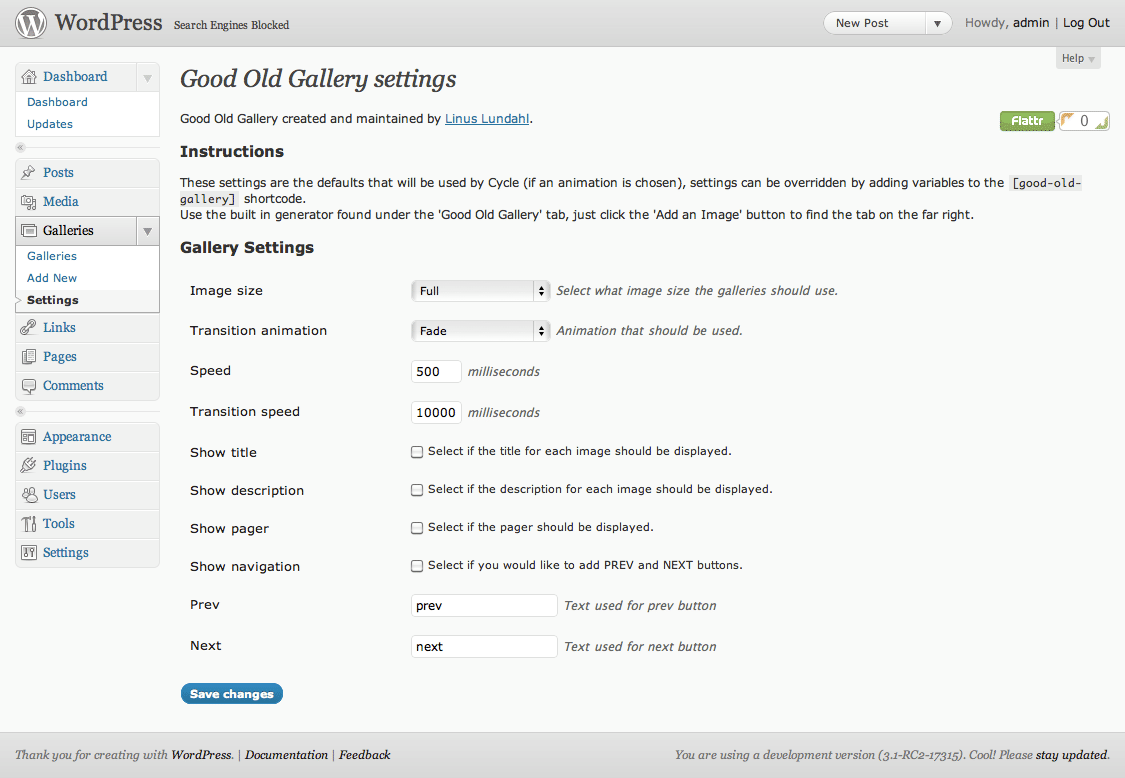
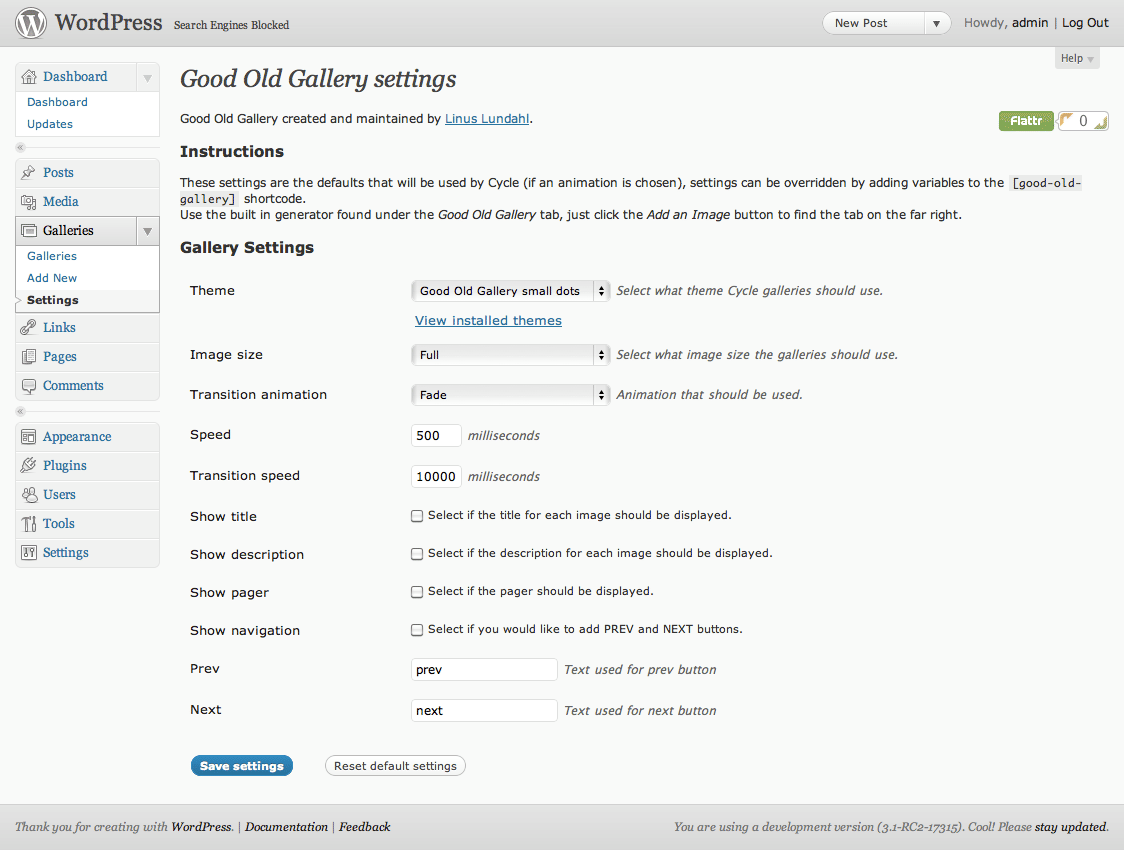
Added style to small dots theme + Minor fixes.

diff --git a/themes/good-old-gallery-dots.css b/themes/good-old-gallery-dots.css
@@ -1,10 +1,57 @@
 /**
  *
- * Style Name: Good Old Gallery Small Pager
- * Description: A neat gallery with small pager icons floating on top of the gallery.
+ * Style Name: Good Old Gallery small dots
+ * Description: A neat gallery pager with small dots floating on top of the gallery. Uses CSS3 to achieve this. (titles and descriptions are not styled yet)
  * Author: Linus Lundahl
- * Version: 0.1
+ * Version: 1.0
  * Author URI: http://unwi.se/
  *
  */
 
+.go-gallery { padding: 0 30px; position: relative; }
+
+/** Pager */
+.go-gallery .pager {
+	-webkit-border-radius: 8px;
+	-moz-border-radius: 8px;
+	border-radius: 8px;
+	background: rgba(0,0,0,.4);
+	left: 20px;
+	padding: 5px 10px;
+	position: absolute;
+	top: 20px;
+	z-index: 999;
+}
+.go-gallery.has-pager .pager {
+	left: 50px;
+}
+.go-gallery .pager a {
+	-webkit-border-radius: 3px;
+	-moz-border-radius: 3px;
+	border-radius: 3px;
+	background: #000;
+	height: 0;
+	overflow: hidden;
+	padding: 6px 0 0 0;
+	width: 6px;
+}
+.go-gallery .pager a.activeSlide { background: #fff;}
+.go-gallery .pager a:first-child { margin: 0; }
+/* end Pager */
+
+/** Navigation */
+.go-gallery .nav .prev,
+.go-gallery .nav .next {
+	height: 100%;
+	margin: 0;
+	overflow: hidden;
+	position: absolute;
+	text-indent: -9999px;
+	top: 0;
+	width: 30px;
+}
+.go-gallery .nav .prev { background: url("good-old-gallery-dots/arrows.png") 0 center no-repeat; left: 0; }
+.go-gallery .nav .next { background: url("good-old-gallery-dots/arrows.png") -90px center no-repeat; right: 0; }
+.go-gallery .nav .prev:hover { background: url("good-old-gallery-dots/arrows.png") -30px center no-repeat; }
+.go-gallery .nav .next:hover { background: url("good-old-gallery-dots/arrows.png") -60px center no-repeat; }
+/* end Navigation */

diff --git a/style/good-old-gallery.css b/style/good-old-gallery.css
@@ -1,16 +1,15 @@
-.go-gallery, .good-old-gallery-widget { padding: 0; overflow: hidden; }
+.go-gallery, .good-old-gallery-widget { display: inline-block; padding: 0; overflow: hidden; }
 
-.go-gallery .inside, #content .go-gallery .inside { margin: 0; position: relative; }
+.go-gallery .inside { margin: 0; position: relative; }
 
 .go-gallery .title { font-size: 1em; font-weight: bold; margin: 0 5px 0 0; }
 .go-gallery .description { font-size: .8em; font-style: italic; }
 
-.go-gallery img, #content .go-gallery img,
-.go-gallery a, #content .go-gallery a { border: none !important; display: block !important; margin: 0 !important; padding: 0 !important; }
+.go-gallery img,
+.go-gallery a { border: none; display: block; margin: 0; padding: 0; }
 
 .go-gallery .nav { float: left; }
 .go-gallery .nav .prev, .go-gallery .nav .next { cursor: pointer; margin: 0 10px 0 0; }
 
 .go-gallery .pager { float: right; }
-.go-gallery .pager a,
-#content .go-gallery .pager a { float: left; margin-left: 6px !important; }
+.go-gallery .pager a  { float: left; margin-left: 6px; }

diff --git a/style/good-old-gallery-admin.css b/style/good-old-gallery-admin.css
@@ -26,8 +26,9 @@ h3.hndle { cursor: default !important; }
 .goodoldgallery_page_goodoldgallery .go-flattr { position: absolute; right: 0; top: 0; }
 
 .goodoldgallery_page_goodoldgallery .themes-link,
-.goodoldgallery_page_goodoldgallery .available-themes { margin: 0 0 0 235px; padding: 10px 0; }
+.goodoldgallery_page_goodoldgallery .available-themes { margin: 0 0 0 235px; padding: 10px 0; width: 400px; }
 .goodoldgallery_page_goodoldgallery .available-themes .theme { font-weight: bold; }
+.goodoldgallery_page_goodoldgallery .available-themes .theme img { border: 5px solid #eee; margin: 0 0 5px 0; }
 .goodoldgallery_page_goodoldgallery .available-themes .theme .description { font-weight: normal; }
 
 .goodoldgallery_page_goodoldgallery .submit { float: left; margin-left: 10px; }

diff --git a/js/good-old-gallery-admin.js b/js/good-old-gallery-admin.js
@@ -49,6 +49,6 @@ var $j = jQuery.noConflict();
 	});
 
 	// Settings page
-	showHide($('.goodoldgallery_page_goodoldgallery .available-themes'), 'Preview installed themes', 'Hide installed themes', 'themes-link');
+	showHide($('.goodoldgallery_page_goodoldgallery .available-themes'), 'View installed themes', 'Hide installed themes', 'themes-link');
 
 }($j));

diff --git a/inc/shortcode.php b/inc/shortcode.php
@@ -42,9 +42,21 @@ function goodold_gallery_shortcode($attr) {
 			'post_mime_type'  => 'image',
 		) );
 
+		$classes = "";
+
+		// NAVIGATION CLASS
+		if ( $navigation = $navigation ? $navigation : '' ) {
+			$classes .= " has-nav";
+		}
+
+		// PAGER CLASS
+		if ( $pager = $pager ? $pager : '' ) {
+			$classes .= " has-pager";
+		}
+
 		if ( $attachments ) {
 			// GO-GALLERY ID
-			$ret .= '<div id="go-gallery-' . $id . '-' . $i . '" class="go-gallery go-gallery-' . $id . '">' . "\n";
+			$ret .= '<div id="go-gallery-' . $id . '-' . $i . '" class="go-gallery go-gallery-' . $id . $classes . '">' . "\n";
 
 			// INNER CLASS
 			$ret .= '<div class="inner">' . "\n";
@@ -83,18 +95,17 @@ function goodold_gallery_shortcode($attr) {
 			$ret .= '</div>' . "\n";
 
 			// NAVIGATION
-			if ( $navigation = $navigation ? $navigation : '' ) {
+			if ( $navigation ) {
 				$ret .= '<div class="nav">' . "\n";
+				error_log(var_export($prev, TRUE));
 				$ret .= '<span class="prev">' . $prev . '</span><span class="next">' . $next . '</span>' . "\n";
 				$ret .= '</div>' . "\n";
 				$navigation = 'prev: "#go-gallery-' . $id . '-' . $i . ' .prev",' .
 											'next: "#go-gallery-' . $id . '-' . $i . ' .next"';
 			}
 
-
-
 			// PAGER
-			if ( $pager = $pager ? $pager : '' ) {
+			if ( $pager ) {
 				$ret .= '<div class="pager"></div>' . "\n";
 				$pager = 'pager: "#go-gallery-' . $id . '-' . $i . ' .pager",';
 			}

diff --git a/inc/settings.php b/inc/settings.php
@@ -21,7 +21,7 @@ if ( is_admin() && $_GET['page'] == 'goodoldgallery' ) {
 
 			$av_themes .= '<li class="theme">';
 			$av_themes .= $screenshot;
-			$av_themes .= '<span class="title">' . $theme['Name'] . '</span> <span class="version">' . $theme['Version'] . '</span> <span class="author">' . $author . '</span>';
+			$av_themes .= '<span class="title">' . $theme['Name'] . '</span> <span class="version">' . $theme['Version'] . '</span> by <span class="author">' . $author . '</span>';
 			$av_themes .= '<div class="description">' . $theme['Description'] . '</div>';
 			$av_themes .= '</li>';
 		}
@@ -163,7 +163,7 @@ if ( is_admin() && $_GET['page'] == 'goodoldgallery' ) {
 	$gog_options['prev'] = array(
 		"name" => "Prev",
 		"desc" => "Text used for prev button",
-		"id" => "next",
+		"id" => "prev",
 		"type" => "text",
 		"std" => 'prev',
 		"size" => $gog_cycle_settings['prev']
@@ -172,7 +172,7 @@ if ( is_admin() && $_GET['page'] == 'goodoldgallery' ) {
 	$gog_options['next'] = array(
 		"name" => "Next",
 		"desc" => "Text used for next button",
-		"id" => "prev",
+		"id" => "next",
 		"type" => "text",
 		"std" => 'next',
 		"size" => $gog_cycle_settings['next']

diff --git a/good-old-gallery.php b/good-old-gallery.php
@@ -6,7 +6,7 @@
  * Plugin URI: http://unwi.se/good-old-gallery
  * Description: Good Old Gallery is a WordPress plugin that helps you upload image galleries that can be used on more than one page/post, it utilizes the built in gallery functionality in WP. Other features include built in jQuery Cycle support and Widgets.
  * Author: Linus Lundahl
- * Version: 0.1-dev
+ * Version: 1.0
  * Author URI: http://unwi.se/
  *
  */
